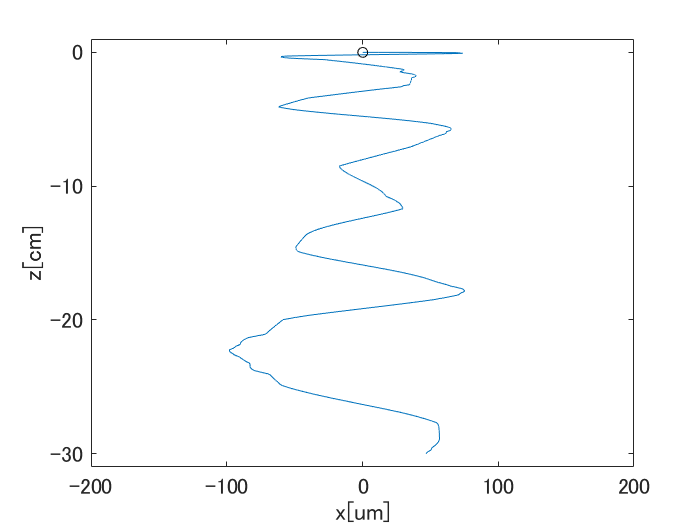
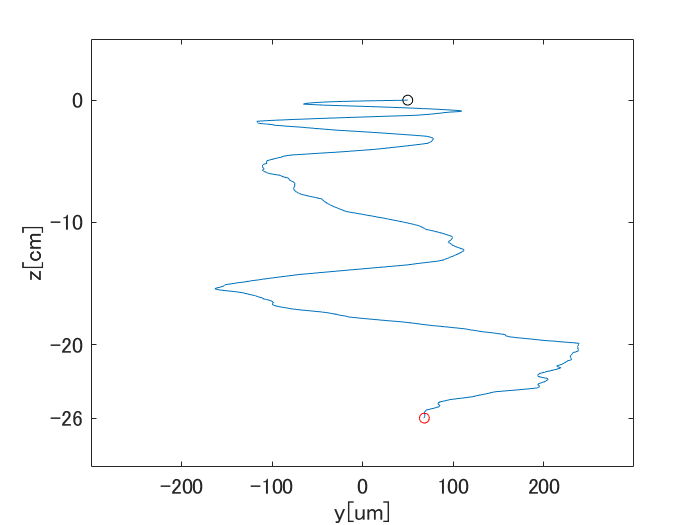
完成 0703

diff --git a/atomic_vortex/DressedAtom.cpp b/atomic_vortex/DressedAtom.cpp
@@ -2,7 +2,6 @@
 
 DressedAtom::DressedAtom()
 {
-	flag_sp = 1;
 	count_sp = 0;
 	detuning = detuning0;			//detuning between |e> and |g1>
 	srand((unsigned)time(NULL));	//a magic phrase to make random numbers be based on time
@@ -17,34 +16,38 @@ void DressedAtom::process_repump(atom* obj)
 		std::uniform_real_distribution<double> dist(0.0, 1.0);
 
 		double psp_pm = dist(rand_src);
-		double p1 = branch * (1.0 - exp( - gamma * s1_pm(obj->radius) * dt / 2.0));
+		double p1 = branch * (1.0 - exp( - gamma * s2_pm(obj->radius) * dt / 2.0));
 
 		if (psp_pm<=p1) {
 			obj->s = state::d1;
 
 			switch (flag_sp) {
 			case 0: {		//no OAM mode
-				double k_recoil = (dist(rand_src) > 0.5) ? 2.0 * M_PI/ lambda_pm : -2.0 * M_PI / lambda_pm;
-				obj->v.vz += - hbar * k_wave / mass + hbar * k_recoil / mass;
+				// double k_recoil = (dist(rand_src) > 0.5) ? 2.0 * M_PI/ lambda_pm : -2.0 * M_PI / lambda_pm;
+				// obj->v.vz += - hbar * k_wave / mass + hbar * k_recoil / mass;
+				obj->v.vz += - hbar * k_wave / mass;
 			}
 			case 1: {		// wavevector direction
-				double k_recoil = (dist(rand_src) > 0.5) ? 2.0 * M_PI / lambda_pm : -2.0 * M_PI / lambda_pm;
-				obj->v.vz += - hbar * k_wave / mass + hbar * k_recoil / mass;
+				// double k_recoil = (dist(rand_src) > 0.5) ? 2.0 * M_PI / lambda_pm : -2.0 * M_PI / lambda_pm;
+				// obj->v.vz += - hbar * k_wave / mass + hbar * k_recoil / mass;
+				obj->v.vz += - hbar * k_wave / mass;
 			}
 			case 2: {		// dipole radiation direction
 				// double sp2_psi = 2.0 * M_PI * dist(rand_src);	//psi around polarization axis
 				// double sp2_theata = M_PI * dist(rand_src);
 
-				double k_recoil = (dist(rand_src) > 0.5) ? k_wave * 1.0 : k_wave * -1.0;
-				obj->v.vz += - hbar * k_wave / mass + hbar * k_recoil / mass;
+				// double k_recoil = (dist(rand_src) > 0.5) ? k_wave * 1.0 : k_wave * -1.0;
+				// obj->v.vz += - hbar * k_wave / mass + hbar * k_recoil / mass;
+				obj->v.vz += - hbar * k_wave / mass;
 			}
 			default: {
-				double sp_psi = 2.0 * M_PI * dist(rand_src);
-				double sp_theata = M_PI * dist(rand_src);
+				// double sp_psi = 2.0 * M_PI * dist(rand_src);
+				// double sp_theata = M_PI * dist(rand_src);
 
-				obj->v.vx += hbar * k_wave * sin(sp_theata) * cos(sp_psi) / mass;
-				obj->v.vy += hbar * k_wave * sin(sp_theata) * sin(sp_psi) / mass;
-				obj->v.vz += - hbar * k_wave / mass + hbar * k_wave * cos(sp_theata) / mass;
+				// obj->v.vx += hbar * k_wave * sin(sp_theata) * cos(sp_psi) / mass;
+				// obj->v.vy += hbar * k_wave * sin(sp_theata) * sin(sp_psi) / mass;
+				// obj->v.vz += - hbar * k_wave / mass + hbar * k_wave * cos(sp_theata) / mass;
+				obj->v.vz += - hbar * k_wave / mass;
 			}
 			}
 			count_sp++;
@@ -74,14 +77,14 @@ void DressedAtom::process_diss(atom* obj)
 // motion within a time step dt
 void DressedAtom::step_motion(atom* obj)
 {
-	obj->r.x += 1.0/2.0 * (obj->v.vx + obj->v_pre.vx) * dt + 1.0/2.0 * obj->acc_x *dt * dt;
-	obj->r.y += 1.0/2.0 * (obj->v.vy + obj->v_pre.vy) * dt + 1.0/2.0 * obj->acc_y *dt * dt;
+	obj->r.x += 1.0/2.0 * (obj->v.vx + obj->v_pre.vx) * dt + 1.0/2.0 * obj->acc_x * dt * dt;
+	obj->r.y += 1.0/2.0 * (obj->v.vy + obj->v_pre.vy) * dt + 1.0/2.0 * obj->acc_y * dt * dt;
 	obj->r.z += 1.0/2.0 * (obj->v.vz + obj->v_pre.vz) * dt - 1.0/2.0 * G * dt * dt;
 
 	obj->v.vx += obj->acc_x * dt;
 	obj->v.vy += obj->acc_y * dt;
 	obj->v.vz += - G * dt;
-	obj->v_pre=obj->v;
+	obj->v_pre = obj->v;
 
 	obj->radius = sqrt(obj->r.x * obj->r.x + obj->r.y * obj->r.y);
 	obj->phi = (obj->r.x == 0.0 && obj->r.y == 0.0) ? obj->phi : atan2(obj->r.y, obj->r.x);		//An azimuth need not be defined when r=0 (i.e. x=0 and y=0) but I defined it as it becomes continuous.
@@ -95,7 +98,6 @@ void DressedAtom::step_motion(atom* obj)
 double DressedAtom::intensity(double x)
 {
 	// Optical Vortex Electric Field: E0*sqrt(2)*r/w0 *exp(-r^2/w0^2)
-	double I0 = 2.0 * beam_power / (M_PI * w0 * w0);	//beam intensity coefficient [V/m]
 	double ints = 2.0*I0*x*x/(w0*w0)*exp(-2.0*x * x / (w0 * w0));			// intensity [V/m]
 	return ints;
 }
@@ -132,7 +134,6 @@ double DressedAtom::s2(double x)
 
 double DressedAtom::grad_s1(double x)
 {
-	double I0 = 2.0 * beam_power / (M_PI * w0 * w0);	//Å‘åƒr[ƒ‹“x*1/e [V/m]
 	double grad_int = 4.0 * I0/(w0*w0) *(x - 2.0*x * x*x / (w0 * w0)) * exp(-2 * x * x / (w0 * w0));
 	double gs = grad_int /(I_s1 *(1 + 4 * detuning * detuning / (gamma1*gamma1)));
 	return gs;
@@ -140,7 +141,6 @@ double DressedAtom::grad_s1(double x)
 
 double DressedAtom::grad_s2(double x)
 {
-	double I0 = 2.0 * beam_power / (M_PI * w0 * w0);	//Å‘åƒr[ƒ‹“x*1/e [V/m]
 	double grad_int = 4.0 * I0 / (w0 * w0) * (x - 2.0 * x * x * x / (w0 * w0)) * exp(-2 * x * x / (w0 * w0));
 	double gs = grad_int /(I_s2* (1 + 4 * (detuning + delta_hfs) * (detuning + delta_hfs) / (gamma2*gamma2)));
 	return gs;
@@ -171,12 +171,13 @@ void DressedAtom::force_dip(atom* obj)
 		}
 	}
 
-	obj->acc_x = f_dip * cos(obj->phi) / mass;
-	obj->acc_y = f_dip * sin(obj->phi) / mass;
-	
-	if ((obj->phi > 0.0 && obj->phi < M_PI && obj->acc_y > 0)|| (obj->phi > M_PI/2.0 && obj->phi < 3.0*M_PI/2.0 && obj->acc_x < 0)) {
+	if ( f_dip > 0 ) {
+		f_dip = 0;
 		printf("dipole force error\n");
 	}
+
+	obj->acc_x = f_dip * cos(obj->phi) / mass;
+	obj->acc_y = f_dip * sin(obj->phi) / mass;
 }
 
 
@@ -282,27 +283,23 @@ void DressedAtom::recoil_diss(atom* obj)
 	}
 }
 
-// saturation parameter between |g1> and |e>
-double DressedAtom::s1_pm(double x)
+// saturation parameter between |g2> and |e>
+double DressedAtom::s2_pm(double x)
 {
 	// Gaussian Electric Field: E0 *exp(-r^2/w0_pm^2)
-	double I0 = sqrt( 2.0 ) * beam_power_pm / (w0_pm * sqrt(M_PI * w0));	//beam intensity coefficient [V/m]
-	double ints = I0 * exp(-2.0*x * x / (w0_pm * w0_pm));			// intensity [V/m]
+	double I0_pm = sqrt( 2.0 ) * beam_power_pm / (w0_pm * sqrt(M_PI * w0));	//beam intensity coefficient [V/m]
+	double ints_pm = I0_pm * exp(-2.0*x * x / (w0_pm * w0_pm));			// intensity [V/m]
 
-	double s = intensity(x) / (I_s1 * (1.0 + 4.0 * detuning_pm * detuning_pm / (gamma1 * gamma1)));
+	double s_pm = ints_pm / (I_s2 * (1.0 + 4.0 * detuning_pm * detuning_pm / (gamma2 * gamma2)));
 	
-	if (s > 0.1) {
-		printf("s parameter of pm is error %e\n", s);
-	}
-	
-	return s;
+	return s_pm;
 } 
 
 
 // Calculate atom energy
 void DressedAtom::calc_energy(atom* obj)
 {
-	double Uopt = obj->s == state::d1? 2.0/3.0 * hbar * detuning / 2.0 *  log(1.0+s1(obj->radius)): 2.0/3.0 * hbar * (detuning + delta_hfs) / 2.0 *  log(1.0+s2(obj->radius));
-	obj->E_kin = mass/k_b  *( obj->v.vx * obj->v.vx + obj->v.vy* obj->v.vy) + Uopt;
+	double Uopt = ( obj->s == state::d1 )? 2.0/3.0 * hbar * detuning / 2.0 *  log(1.0+s1(obj->radius)): 2.0/3.0 * hbar * (detuning + delta_hfs) / 2.0 *  log(1.0+s2(obj->radius));
+	obj->E_kin = ( 1.0 / 2.0 * mass *( obj->v.vx * obj->v.vx + obj->v.vy * obj->v.vy + obj->v.vz * obj->v.vz) + Uopt + mass * G * obj->r.z ) * 2.0 / (3.0 * k_b);
 
 }

diff --git a/atomic_vortex/atomic_vortex.cpp b/atomic_vortex/atomic_vortex.cpp
@@ -19,7 +19,7 @@ int main()
 	std::cin >> flag_mode;
 
 	// spontaneous emission mode  
-	printf("select spontaneous emission mode?\n 0:no OAM, 1:z-axis-sp, 2:dipole-radiation, 3:all direction \n");
+	printf("select spontaneous emission mode?\n 0:no sp, 1:z-axis-sp, 2:dipole-radiation, 3:all direction \n");
 	std::cin >> flag_sp_tmp;
 
 	if(flag_mode == 0){
@@ -43,6 +43,7 @@ int main()
 
 		// spontaneous emission mode  
 		OV1.flag_sp = flag_sp_tmp;
+		printf("spontaneous emission mode  %d\n", OV1.flag_sp);
 
 	    // 時間ステップごとの運動
 	    for (int i = 0; i <= jloop; i++) {
@@ -55,8 +56,10 @@ int main()
 	        x[i] = rb87->r.x;  y[i] = rb87->r.y;  z[i] = rb87->r.z;
 			vz[i] = rb87->v.vz; E[i]= rb87->E_kin;
 
+			ofs << x[i] << ", " << y[i] << ", " << z[i] << ", " << E[i] << "," << vz[i] << endl;
+
 			if (z[i] < -0.26) {
-				printf("z potision under -26 cm with %d processes (%e s)\n", i-1, 5.0e-5 *i);
+				printf("z potision under -26 cm with %d processes (%e s)\n", i, 5.0e-5 *i);
 				break;
 			}
 
@@ -64,11 +67,9 @@ int main()
 				printf("conf radius out at z=%e cm\n", z[i] * 1e2);
 				break;
 			}
-
-			ofs << x[i] << ", " << y[i] << ", " << z[i] << ", " << E[i] << "," << vz[i] << endl;
 	    }
 
-		if (rb87->r.z > -0.25) {
+		if (rb87->r.z > -0.20) {
 			goto redo;
 		}
 
@@ -95,13 +96,13 @@ int main()
 
 		printf("simulation execution\n");
 
-		for (int jj = 0; jj < 10; jj++) {
-			for (int m = 0; m < SAMPLE; m++) {
+		for (int jj = 0; jj < 100; jj++) {
+			for (int ii = 0; ii < SAMPLE; ii++) {
 
-				//redoM:
+				redoM:
 
-				position r0 = { x0[m], y0[m], z0[m] };
-				velocity v0 = { vx0[m], vy0[m], vz0[m] };
+				position r0 = { x0[ii], y0[ii], z0[ii] };
+				velocity v0 = { vx0[ii], vy0[ii], vz0[ii] };
 
 				// オブジェクトのコンストラクタ
 				atom Rb87(r0, v0, state::d1);		// 原子オブジェクト
@@ -125,13 +126,13 @@ int main()
 					}
 				}
 
-				// if (rb87->r.z > -0.25) {
-				// 	goto redoM;
-				// }
+				if (rb87->r.z > -0.20) {
+				 	goto redoM;
+				}
 
 				double vphi = -(rb87->v.vx) * sin(rb87->phi) + (rb87->v.vy) * cos(rb87->phi);
 
-				if (vphi > 0 && rb87->r.z < -0.25)	count_vphi++;
+				if (vphi > 0)	count_vphi++;
 				sum_sp += OV1.count_sp;
 
 			}

diff --git a/atomic_vortex/DressedAtom.h b/atomic_vortex/DressedAtom.h
@@ -20,6 +20,7 @@ public:
 private:
 	double detuning;			//detuning between |e> and |g1> [rad/s]
 	double k_wave = 2.0 * M_PI / lambda;								//wavenumber[/m]
+	const double I0 = 2.0 * beam_power / (M_PI * w0 * w0);	//beam intensity coefficient [V/m]
 	const double gamma1 = gamma * branch;									//spontaneous decay rate between |e> and |1>[rad/s]
 	const double gamma2 = gamma * (1.0 - branch);							//spontaneous decay rate between |e> and |2>[rad/s]
 	const double lambda1 = 780.2e-9;								//wavelength between |e> and |g1>[m]
@@ -37,6 +38,6 @@ private:
 	bool spontaneous_emission(atom* obj);							// spontaneous emission
 	void recoil_diss(atom* obj);									// recoil of spontaneous emission
 
-	double s1_pm(double x);											// saturation parameter between |g1> and |e> of repump
+	double s2_pm(double x);											// saturation parameter between |g2> and |e> of repump
 };
 

diff --git a/atomic_vortex/const_param.h b/atomic_vortex/const_param.h
@@ -24,10 +24,10 @@ const double beam_power = 100e-3;			//ƒr[ƒo—Í[W]
 
 
 //===ƒŠƒ|ƒ“ƒvŒõ ƒpƒ‰[ƒ[ƒ^[=================================================================================================================================
-const double detuning_pm = 2.0 * M_PI * 1e9;			//—£’² [rad/s]
+const double detuning_pm = 2.0 * M_PI * 10e6;			//—£’² [rad/s]
 const double lambda_pm = lambda;						//wavelength of detuned D2 line[m]
 const double w0_pm = 5e-3;								//ƒr[ƒ•[m]
-const double beam_power_pm = 50e-3;						//ƒr[ƒo—Í[W]
+const double beam_power_pm = 10e-3;						//ƒr[ƒo—Í[W]
 
 
 //===—â‹pŒ´Žq’c ƒpƒ‰ƒ[ƒ^[=================================================================================================================================
